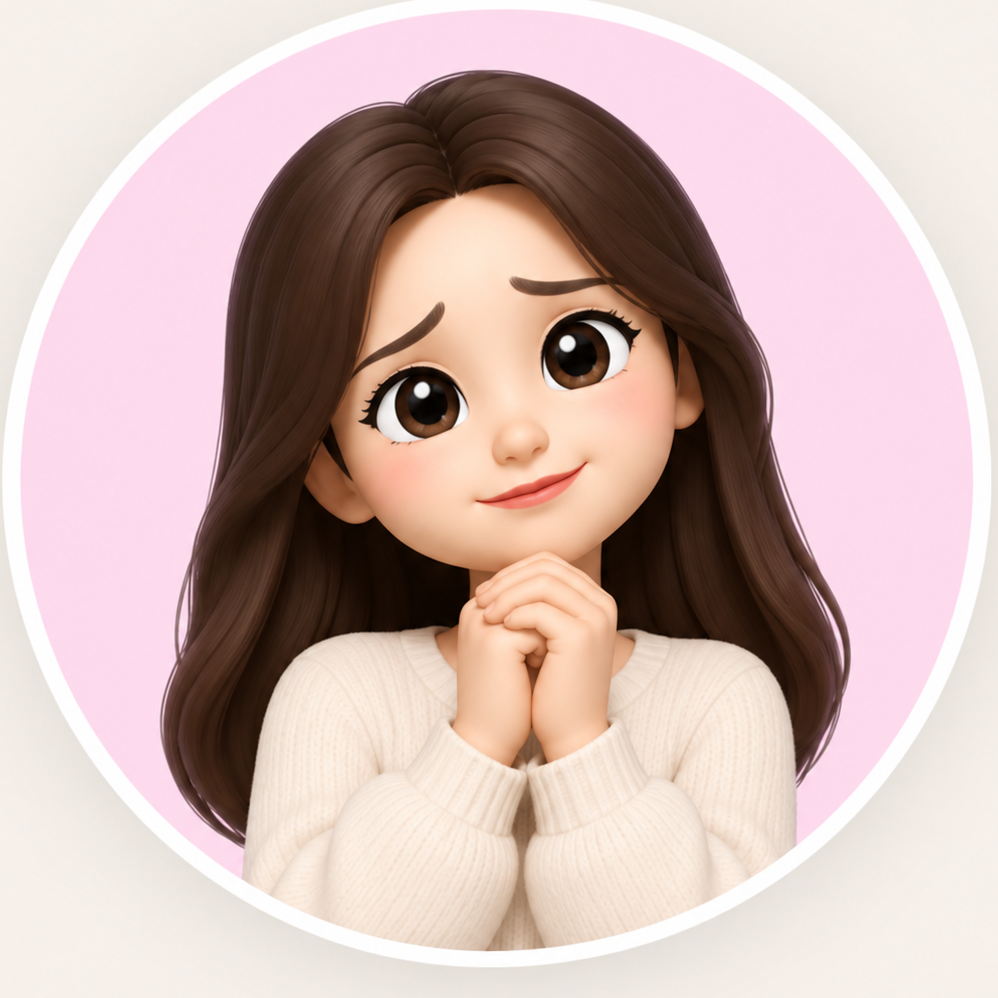
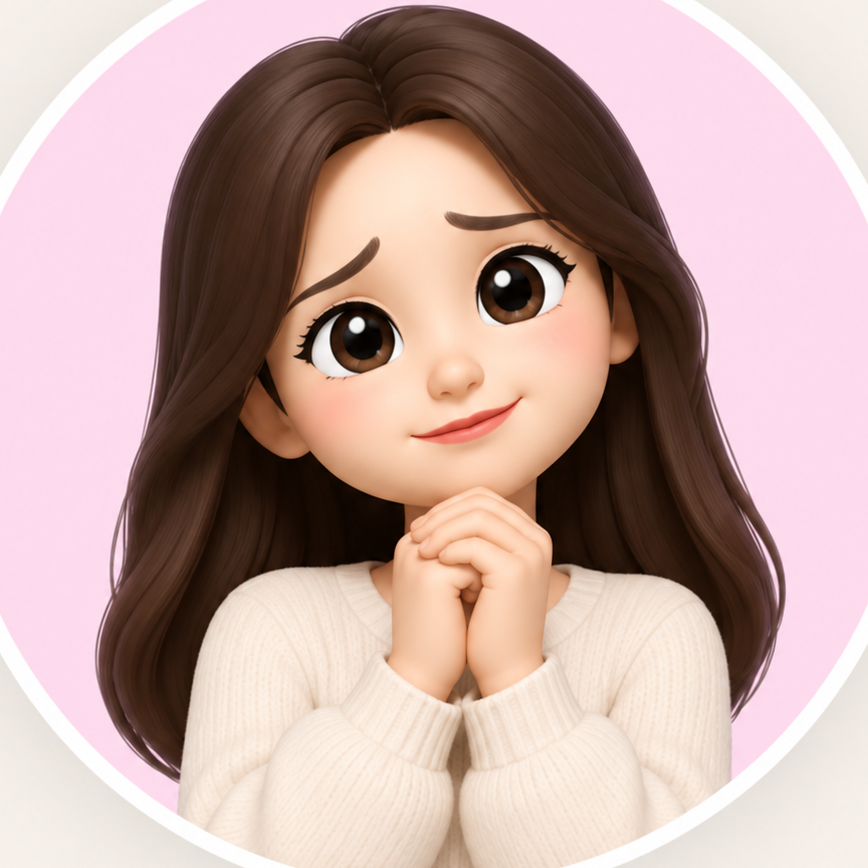
Remove ring halo, stack testimonials, fix lightbox back-button
- Crop char-1..char-7 past the baked-in white ring into just the
  colored circle content, so no thin frame/halo shows around them
- Switch the testimonial gallery from a 3-up cropped grid to a
  stacked full-width list so the screenshots are readable without
  clicking
- Push a history state when the lightbox opens and close it on
  popstate, so the mobile back button dismisses the overlay instead
  of navigating away from the page

diff --git a/index.html b/index.html
@@ -248,10 +248,18 @@
     function openLightbox(src) {
       document.getElementById('lightbox-img').src = src;
       document.getElementById('lightbox').classList.add('open');
+      history.pushState({ lightbox: true }, '');
     }
     function closeLightbox() {
-      document.getElementById('lightbox').classList.remove('open');
+      if (history.state && history.state.lightbox) {
+        history.back();
+      } else {
+        document.getElementById('lightbox').classList.remove('open');
+      }
     }
+    window.addEventListener('popstate', function () {
+      document.getElementById('lightbox').classList.remove('open');
+    });
   </script>
 
 </body>

diff --git a/style.css b/style.css
@@ -351,15 +351,14 @@ section h2 {
   margin-bottom: 12px;
 }
 .review-gallery {
-  display: grid;
-  grid-template-columns: repeat(3, 1fr);
-  gap: 10px;
+  display: flex;
+  flex-direction: column;
+  gap: 16px;
 }
 .review-gallery img {
+  display: block;
   width: 100%;
-  aspect-ratio: 3 / 4;
-  object-fit: cover;
-  object-position: top;
+  height: auto;
   border-radius: 14px;
   border: 1px solid var(--line);
   box-shadow: 0 4px 10px rgba(44, 36, 34, 0.08);
